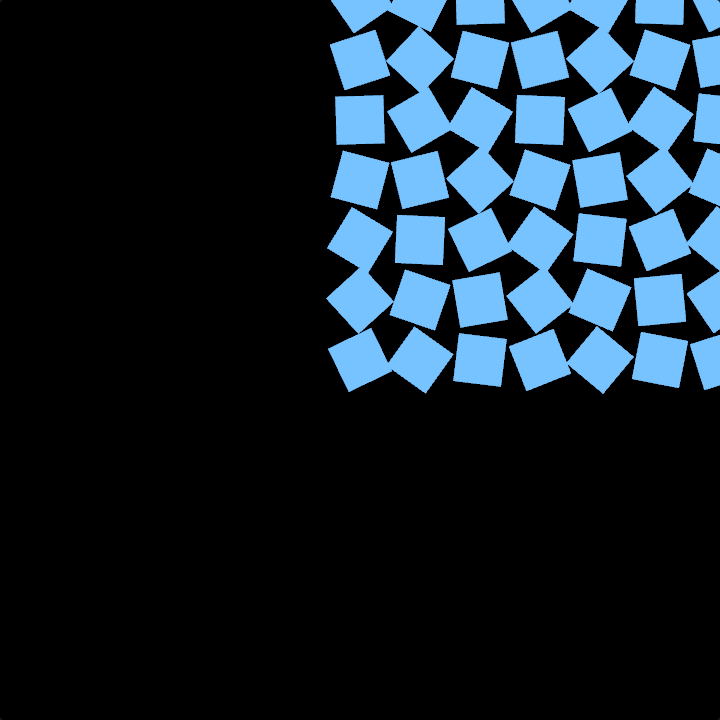
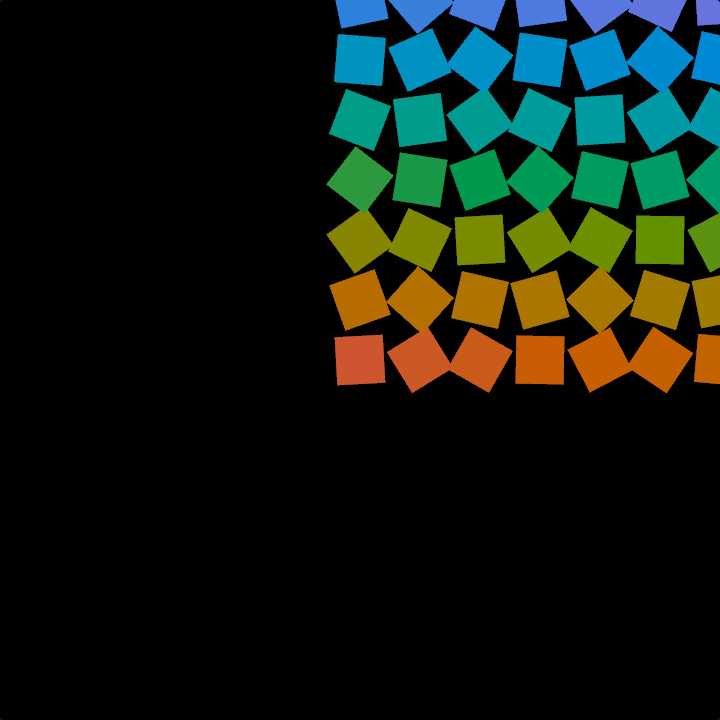
feat(pillars-scene nt56.19): native ColorCycle source; restore grid spec color (#392)
ColorCycle is the color analogue of WaveOffset: it spins each instance through
the OKLCH hue wheel by rank (a spatial spread across the field) and time (an
animated drift), on the perceptual OKLab substrate (nt56.20). It restores
grid-of-squares' DEMO-PATCHES spec color (hue = rank + time*0.2) that nt56.5
deliberately deferred when it made color opaque.

- color.ts: `oklchColorBinding(lightness, chroma, hueTurns)` — OKLCH→OKLab at
  the seam (a = C·cos(H), b = C·sin(H)); hue lives only here, never on a block.
  Hue rotation needed no new PlanExpr primitive — sin/cos were already in the
  vocabulary, which is the substrate paying off. [LAW:one-source-of-truth]
- ColorCycle block: opaque intent controls (spread, cycleSpeed, vividness,
  brightness) — no channel names; the color-opacity test keeps passing.
- grid-of-squares rewired from SolidColor to ColorCycle{spread:1, cycleSpeed:0.2,
  vividness:0.8, brightness:0.6}, matching the spec hue=rank+time*0.2 / s:0.8 /
  l:0.6 on the perceptual model.

Verification:
- Full suite 2287 pass; typecheck + lint clean.
- Visual gate: three-grid-of-squares e2e green; the captured frame shows the
  rainbow hue spread restored (red→orange→yellow→green→teal→blue across rank),
  drifting over time — perceptually even hue steps from the OKLCH rotation.

Claude-Session: https://claude.ai/code/session_01Q29RRdNV6SsCaKqh61ECP7

Changed region(s): [[0.4583, 0.0, 1.0, 0.55]]

diff --git a/src/pillars/scene/blocks/color-cycle.ts b/src/pillars/scene/blocks/color-cycle.ts
@@ -1,0 +1,60 @@
+/**
+ * src/pillars/scene/blocks/color-cycle.ts
+ *
+ * A color source that spins each instance through the color wheel by its `rank`
+ * (a spatial spread across the field) and `time` (an animated drift) — the color
+ * analogue of `WaveOffset`, which varies a transform channel by rank/time. It is
+ * the native form of the demo "rank + time hue" coloring, on the perceptual
+ * OKLab model (nt56.20).
+ *
+ * The block describes *intent* — how far the hue spreads, how fast it cycles,
+ * how vivid and how bright — never a color channel. Hue itself lives only inside
+ * the OKLCH→OKLab conversion at the seam (`oklchColorBinding`); the
+ * color-opacity test guards that this block names no `hue`/`saturation`/etc.
+ *
+ * [LAW:dataflow-not-control-flow] Every instance runs the one OKLCH expression;
+ *   its place on the wheel is the value `hueTurns`, not a branch.
+ * [LAW:decomposition] Color is this block's only concern; placement stays with
+ *   the instance source it modifies.
+ */
+
+import { add, input, intrinsic, konst, mul } from '../../../render/scene-plan';
+import { defineSceneBlock, sceneConfig } from '../scene-block';
+import { oklchColorBinding } from '../color';
+
+// OKLab chroma roughly at the sRGB gamut edge; `vividness` is a 0..1 fraction of
+// it, so the most vivid setting sits near the boundary without blowing past it.
+const MAX_CHROMA = 0.2;
+
+const config = {
+  spread: sceneConfig.finiteNumber({ label: 'Spread', control: 'number' }),
+  cycleSpeed: sceneConfig.finiteNumber({ label: 'Cycle speed', control: 'number' }),
+  vividness: sceneConfig.positiveNumber({ label: 'Vividness', control: 'number' }),
+  brightness: sceneConfig.positiveNumber({ label: 'Brightness', control: 'number' }),
+} as const;
+
+export const ColorCycleBlock = defineSceneBlock({
+  type: 'ColorCycle',
+  role: 'modifier',
+  catalog: {
+    displayName: 'Color Cycle',
+    category: 'color',
+    ports: [
+      { id: 'primary', label: 'Instances', direction: 'input', value: 'instanceBundle' },
+      { id: 'instances', label: 'Instances', direction: 'output', value: 'instanceBundle' },
+    ],
+  },
+  config,
+  contribute: (config) => ({
+    role: 'modifier',
+    // Hue, in turns: a spatial spread across rank plus a time-driven drift.
+    apply: (bundle) => ({
+      ...bundle,
+      color: oklchColorBinding(
+        config.brightness,
+        config.vividness * MAX_CHROMA,
+        add(mul(intrinsic('rank'), konst(config.spread)), mul(input('time'), konst(config.cycleSpeed))),
+      ),
+    }),
+  }),
+});

diff --git a/src/pillars/scene/__tests__/color-cycle.test.ts b/src/pillars/scene/__tests__/color-cycle.test.ts
@@ -1,0 +1,50 @@
+/**
+ * Tests for the ColorCycle color source (oscilla-pillars-scene-nt56.19).
+ *
+ * ColorCycle spins each instance through the OKLCH hue wheel by rank (spread)
+ * and time (drift). These assert the compiled *meaning* — an OKLab binding whose
+ * chroma axes are cos/sin of a rank+time hue — not the exact PlanExpr tree.
+ * [LAW:behavior-not-structure]
+ */
+
+import { describe, it, expect } from 'vitest';
+
+import { compileScenePlan } from '../index';
+import { makeGridOfSquaresPatch } from '../../fixtures/grid-of-squares';
+import { sceneObjectRef, type ScenePlan } from '../../../render/scene-plan';
+
+function compileOk(): ScenePlan {
+  const result = compileScenePlan(makeGridOfSquaresPatch());
+  if (result.kind !== 'ok') throw new Error(`expected ok, got: ${result.errors.join('; ')}`);
+  return result.plan;
+}
+
+describe('ColorCycle color source — compiled meaning', () => {
+  const plan = compileOk();
+  const material = plan.resources.materials[plan.objects[sceneObjectRef('draw')].material];
+
+  it('mints a perceptual OKLab color binding', () => {
+    expect(material.kind).toBe('unlitColor');
+    if (material.kind !== 'unlitColor') return;
+    expect(material.color.space).toBe('oklab');
+  });
+
+  it('rotates hue by rank and time on the chroma axes (cos/sin of rank+time)', () => {
+    if (material.kind !== 'unlitColor' || material.color.space !== 'oklab') {
+      throw new Error('expected an unlitColor oklab material');
+    }
+    const a = JSON.stringify(material.color.a);
+    const b = JSON.stringify(material.color.b);
+    // a = C·cos(H), b = C·sin(H), with H = rank·spread + time·cycleSpeed.
+    expect(a).toContain('"cos"');
+    expect(b).toContain('"sin"');
+    for (const axis of [a, b]) {
+      expect(axis).toContain('"rank"');
+      expect(axis).toContain('"time"');
+    }
+  });
+
+  it('declares time as a derived runtime input the hue drift reads', () => {
+    expect(plan.render.inputs).toContain('time');
+  });
+});

diff --git a/src/pillars/scene/__tests__/compile.test.ts b/src/pillars/scene/__tests__/compile.test.ts
@@ -75,12 +75,12 @@ describe('compileScenePlan — Grid of Squares proof target', () => {
     expect(geo.height).toBe(0.08);
   });
 
-  it('references one unlit oklab color material from the SolidColor block', () => {
+  it('references one unlit oklab color material from the ColorCycle block', () => {
     const material = plan.resources.materials[object.material];
     expect(material.kind).toBe('unlitColor');
     if (material.kind !== 'unlitColor') return;
-    // The opaque SolidColor block mints a perceptual OKLab ColorBinding behind
-    // the seam (the opaque authored color enters OKLab at hexColorBinding).
+    // The grid is colored by ColorCycle, which mints a perceptual OKLab binding
+    // whose hue spreads by rank and drifts by time.
     expect(material.color.space).toBe('oklab');
   });
 
@@ -222,6 +222,7 @@ describe('scene block contract — catalog and registration', () => {
       'Wave Offset',
       'Solid Color',
       'Gradient',
+      'Color Cycle',
       'Brightness',
       'Draw Instances',
     ]);
@@ -233,6 +234,8 @@ describe('scene block contract — catalog and registration', () => {
       'instanceBundle', // SolidColor output
       'instanceBundle', // Gradient input
       'instanceBundle', // Gradient output
+      'instanceBundle', // ColorCycle input
+      'instanceBundle', // ColorCycle output
       'instanceBundle', // Brightness input
       'instanceBundle', // Brightness output
       'instanceBundle', // DrawInstances input
@@ -250,6 +253,10 @@ describe('scene block contract — catalog and registration', () => {
       'color',
       'colorStart',
       'colorEnd',
+      'spread',
+      'cycleSpeed',
+      'vividness',
+      'brightness',
       'factor',
       'size',
       'cameraHalfExtentX',

diff --git a/src/pillars/fixtures/grid-of-squares.ts b/src/pillars/fixtures/grid-of-squares.ts
@@ -2,14 +2,10 @@
  * src/pillars/fixtures/grid-of-squares.ts
  *
  * The first Three-migration proof patch, authored as Oscilla graph semantics:
- * a 10×10 grid of squares, each rotating over time, with a single opaque color
- * set by a `SolidColor` block.
- *
- * The DEMO-PATCHES spec colors this grid by a rank+time HSL hue. That is a
- * channel-driven, position-varying color the opaque-color slice (nt56.5)
- * deliberately defers to the follow-on color-by-position block; until it lands,
- * the grid is a single solid color. Its rotation is still time-driven, so the
- * first-proof-contract requirement that frames differ over time still holds.
+ * a 10×10 grid of squares, each rotating over time, colored by a `ColorCycle`
+ * block that spreads the hue across the field by rank and drifts it with time —
+ * the DEMO-PATCHES spec color (hue = rank + time*0.2), realized on the
+ * perceptual OKLab model.
  *
  * Scope source: design-docs/three-migration-first-proof-contract.md
  *   §"Required Compiler Capabilities"; design-docs/DEMO-PATCHES.md
@@ -48,8 +44,11 @@ export function makeGridOfSquaresPatch(): PillarPatch {
       {
         id: 'color',
         kind: 'modifier',
-        type: 'SolidColor',
-        config: { color: '#2e8bff' },
+        type: 'ColorCycle',
+        // The DEMO-PATCHES spec color: hue = rank + time*0.2 (one wheel across
+        // the field, drifting over time), at fixed vividness and brightness —
+        // now on the perceptual OKLab model.
+        config: { spread: 1, cycleSpeed: 0.2, vividness: 0.8, brightness: 0.6 },
       },
       {
         id: 'draw',

diff --git a/src/pillars/scene/__tests__/insertability.test.ts b/src/pillars/scene/__tests__/insertability.test.ts
@@ -48,7 +48,7 @@ describe('connectableScenePorts — over the native block set', () => {
     const matches = connectableScenePorts(registry, { value: 'instanceBundle', direction: 'output' });
     // A modifier consumes a bundle and a draw consumes a bundle, so every
     // modifier and the draw are valid sinks for a bundle output.
-    expect(matches.map((m) => m.blockType)).toEqual(['WaveOffset', 'SolidColor', 'Gradient', 'Brightness', 'DrawInstances']);
+    expect(matches.map((m) => m.blockType)).toEqual(['WaveOffset', 'SolidColor', 'Gradient', 'ColorCycle', 'Brightness', 'DrawInstances']);
     for (const match of matches) {
       expect(match.port).toMatchObject({ id: 'primary', direction: 'input', value: 'instanceBundle' });
       expect(match.compatibility).toMatchObject({ kind: 'compatible' });
@@ -59,7 +59,7 @@ describe('connectableScenePorts — over the native block set', () => {
     const matches = connectableScenePorts(registry, { value: 'instanceBundle', direction: 'input' });
     // A modifier also *produces* a bundle, so it is offerable as a source — the
     // draw is excluded since its only output is a materialShell.
-    expect(matches.map((m) => m.blockType)).toEqual(['InstanceGrid', 'WaveOffset', 'SolidColor', 'Gradient', 'Brightness']);
+    expect(matches.map((m) => m.blockType)).toEqual(['InstanceGrid', 'WaveOffset', 'SolidColor', 'Gradient', 'ColorCycle', 'Brightness']);
     for (const match of matches) {
       expect(match.port).toMatchObject({ id: 'instances', direction: 'output', value: 'instanceBundle' });
     }

diff --git a/src/pillars/scene/color.ts b/src/pillars/scene/color.ts
@@ -13,7 +13,9 @@
  *   it does not touch three or the renderer.
  */
 
-import { add, konst, mul, type ColorBinding, type PlanExpr } from '../../render/scene-plan';
+import { add, cos, konst, mul, sin, type ColorBinding, type PlanExpr } from '../../render/scene-plan';
+
+const TAU = 2 * Math.PI;
 
 const CHANNEL_MAX = 255;
 
@@ -79,4 +81,22 @@ export function gradientColorBinding(hexFrom: string, hexTo: string, t: PlanExpr
   const c1 = hexToOklab(hexTo);
   const lerp = (from: number, to: number): PlanExpr => add(konst(from), mul(konst(to - from), t));
   return { space: 'oklab', l: lerp(c0.l, c1.l), a: lerp(c0.a, c1.a), b: lerp(c0.b, c1.b) };
+}
+
+/**
+ * An OKLab color from cylindrical OKLCH coordinates: fixed `lightness` and
+ * `chroma`, with the hue spinning by `hueTurns` (1 turn = a full color wheel,
+ * a `PlanExpr` so it can vary per instance / over time). Hue lives only in the
+ * polar conversion `a = C·cos(H), b = C·sin(H)` — the block never names it.
+ *
+ * [LAW:one-source-of-truth] OKLCH↔OKLab is a color concern; it lives at this
+ *   seam, not in the block. Blocks describe *intent* (spread, cycle), not axes.
+ */
+export function oklchColorBinding(
+  lightness: number,
+  chroma: number,
+  hueTurns: PlanExpr,
+): ColorBinding {
+  const h = mul(konst(TAU), hueTurns);
+  return { space: 'oklab', l: konst(lightness), a: mul(konst(chroma), cos(h)), b: mul(konst(chroma), sin(h)) };
 }

diff --git a/src/pillars/scene/blocks/index.ts b/src/pillars/scene/blocks/index.ts
@@ -10,6 +10,7 @@ import { InstanceGridBlock } from './instance-grid';
 import { WaveOffsetBlock } from './wave-offset';
 import { SolidColorBlock } from './solid-color';
 import { GradientBlock } from './gradient';
+import { ColorCycleBlock } from './color-cycle';
 import { BrightnessBlock } from './brightness';
 import { DrawInstancesBlock } from './draw-instances';
 
@@ -18,6 +19,7 @@ export const ALL_SCENE_BLOCKS: readonly SceneBlockDefinition<unknown>[] = [
   WaveOffsetBlock as SceneBlockDefinition<unknown>,
   SolidColorBlock as SceneBlockDefinition<unknown>,
   GradientBlock as SceneBlockDefinition<unknown>,
+  ColorCycleBlock as SceneBlockDefinition<unknown>,
   BrightnessBlock as SceneBlockDefinition<unknown>,
   DrawInstancesBlock as SceneBlockDefinition<unknown>,
 ];
